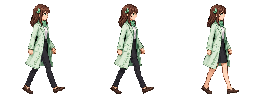
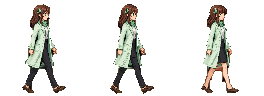
Rebuild board sprites from source to restore feet, pants, and limb joins.
Re-extract pose/walk sheets with a stricter black key so dark clothing survives, and bump the sprite cache to pack41.

diff --git a/src/render/sprites.js b/src/render/sprites.js
@@ -28,9 +28,9 @@ export function preloadPortraits(chars) {
   for (const entry of chars) {
     const id = typeof entry === 'string' ? entry : entry.id;
     const pack = typeof entry === 'string' ? 'chemistry' : (entry.pack || 'chemistry');
-    load(portraits, id, characterAsset(id, pack, 'portrait.png', 'pack21'));
-    load(walks, id, characterAsset(id, pack, 'walk.png', 'pack21'));
-    load(poses, id, characterAsset(id, pack, 'poses.png', 'pack21'));
+    load(portraits, id, characterAsset(id, pack, 'portrait.png', 'pack41'));
+    load(walks, id, characterAsset(id, pack, 'walk.png', 'pack41'));
+    load(poses, id, characterAsset(id, pack, 'poses.png', 'pack41'));
   }
 }
 
